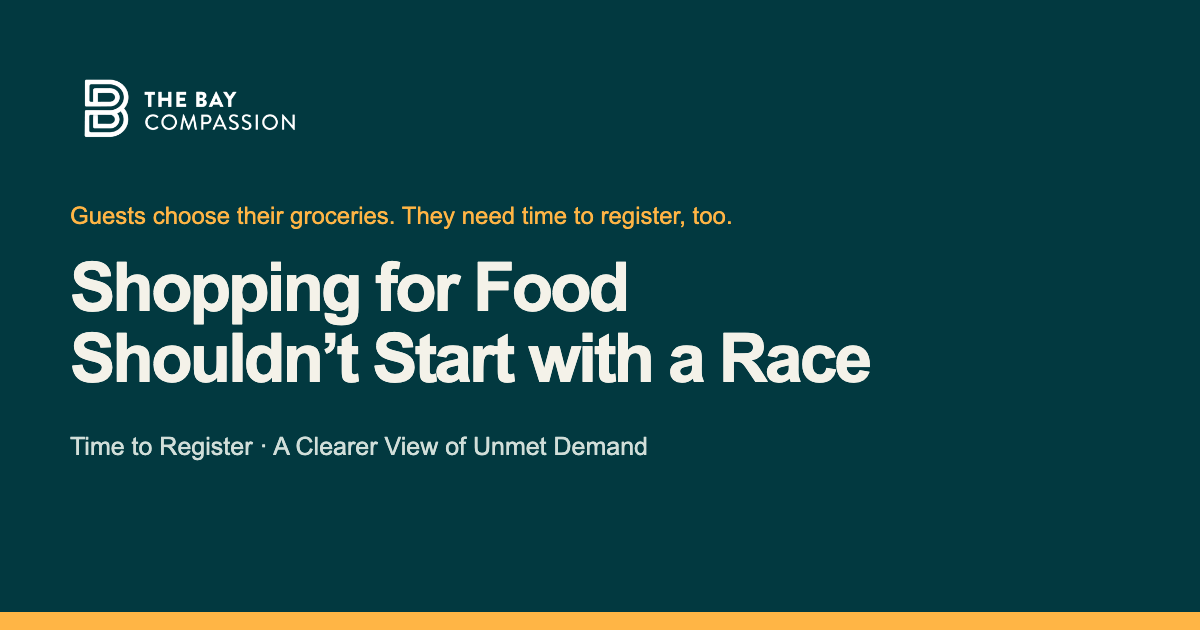
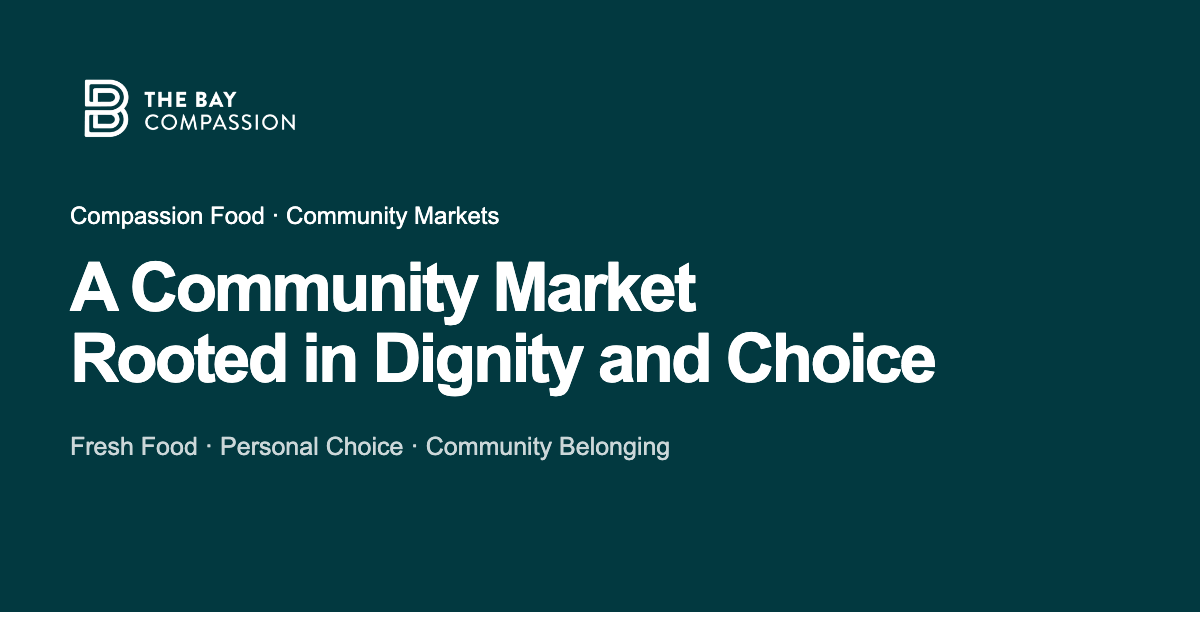
feat: center social preview on mission and separate brand accents

diff --git a/packages/presentations/portfolio/portfolio.css b/packages/presentations/portfolio/portfolio.css
@@ -4,7 +4,9 @@
 	--brand-dark: #012a2f;
 	--night: #011d21;
 	--border: rgb(233 241 238 / 20%);
-	--gold: #ffb545;
+	/* Decorative accents follow the brand palette; focus remains a visibility cue. */
+	--brand-accent: var(--ink);
+	--focus-color: #ffb545;
 	--muted: rgb(233 241 238 / 72%);
 	--font-body: Roboto, Arial, sans-serif;
 	--font-heading: 'Roboto Condensed', 'Arial Narrow', sans-serif;
@@ -27,7 +29,7 @@ a {
 	text-underline-offset: 4px;
 }
 a:focus-visible {
-	outline: 3px solid var(--gold);
+	outline: 3px solid var(--focus-color);
 	outline-offset: 5px;
 }
 img {
@@ -103,7 +105,7 @@ nav {
 }
 .eyebrow {
 	font-size: 12px;
-	color: var(--gold);
+	color: var(--brand-accent);
 	font-weight: 700;
 	letter-spacing: 0.1em;
 	text-transform: uppercase;
@@ -129,10 +131,10 @@ nav {
 	gap: 24px;
 	min-height: 48px;
 	padding: 14px 22px;
-	border: 2px solid var(--gold);
+	border: 2px solid var(--brand-accent);
 	border-radius: 999px;
 	background: transparent;
-	color: var(--gold);
+	color: var(--brand-accent);
 	font-family: var(--font-heading);
 	letter-spacing: 0.04em;
 	text-transform: uppercase;
@@ -140,7 +142,7 @@ nav {
 	text-decoration: none;
 }
 .button:hover {
-	background: var(--gold);
+	background: var(--brand-accent);
 	color: var(--night);
 }
 .facts {
@@ -220,7 +222,7 @@ figcaption strong {
 }
 .number {
 	display: block;
-	color: var(--gold);
+	color: var(--brand-accent);
 	font-size: 14px;
 	margin-bottom: 20px;
 }
@@ -238,7 +240,7 @@ figcaption strong {
 	text-decoration: none;
 }
 .guides > a:hover {
-	border-color: var(--gold);
+	border-color: var(--brand-accent);
 	background: rgb(3 74 82 / 50%);
 }
 .guides .eyebrow {

diff --git a/packages/presentations/portfolio/social.html b/packages/presentations/portfolio/social.html
@@ -4,6 +4,13 @@
 		<meta charset="utf-8" />
 		<title>The Bay Compassion · Project Preview</title>
 		<style>
+			:root {
+				/* Current brand palette; update these when the brand guidelines change. */
+				--social-background: #023940;
+				--social-text: #fff;
+				--social-accent: var(--social-text);
+				--social-text-muted: rgb(255 255 255 / 80%);
+			}
 			* {
 				box-sizing: border-box;
 			}
@@ -12,17 +19,17 @@
 				width: 1200px;
 				height: 630px;
 				padding: 70px;
-				background: #023940;
-				color: #f4f2e9;
+				background: var(--social-background);
+				color: var(--social-text);
 				font-family: Arial, sans-serif;
-				border-bottom: 18px solid #ffb545;
+				border-bottom: 18px solid var(--social-accent);
 			}
 			img {
 				width: 240px;
 				filter: brightness(0) invert(1);
 			}
 			p {
-				color: #ffb545;
+				color: var(--social-accent);
 				font-size: 24px;
 				margin: 50px 0 22px;
 			}
@@ -36,14 +43,14 @@
 			footer {
 				margin-top: 38px;
 				font-size: 25px;
-				color: #d1ded9;
+				color: var(--social-text-muted);
 			}
 		</style>
 	</head>
 	<body>
 		<img src="../../../public/wordmark.png" alt="The Bay Compassion" />
-		<p>Guests choose their groceries. They need time to register, too.</p>
-		<h1>Shopping for Food<br />Shouldn’t Start with a Race</h1>
-		<footer>Time to Register · A Clearer View of Unmet Demand</footer>
+		<p>Compassion Food · Community Markets</p>
+		<h1>A Community Market<br />Rooted in Dignity and Choice</h1>
+		<footer>Fresh Food · Personal Choice · Community Belonging</footer>
 	</body>
 </html>

diff --git a/packages/presentations/portfolio/index.html b/packages/presentations/portfolio/index.html
@@ -12,11 +12,11 @@
 		<meta property="og:type" content="website" />
 		<meta
 			property="og:title"
-			content="The Bay Compassion · Shopping for Food Shouldn’t Start with a Race"
+			content="The Bay Compassion · A Community Market Rooted in Dignity and Choice"
 		/>
 		<meta
 			property="og:description"
-			content="We want more dignity in getting a shopping place. A purpose-built app gives guests time to register and the market room to develop its allocation approach."
+			content="A community food market where guests choose fresh groceries that meet their needs. A project shaped by dignity, language access, accessibility, and care for guest information."
 		/>
 		<meta property="og:url" content="__BASE__" />
 		<meta property="og:image" content="__BASE__images/social.png" />
@@ -24,7 +24,7 @@
 		<meta property="og:image:height" content="630" />
 		<meta
 			property="og:image:alt"
-			content="The Bay Compassion. Shopping for Food Shouldn’t Start with a Race. Time to register. A clearer view of unmet demand."
+			content="The Bay Compassion. A Community Market Rooted in Dignity and Choice. Fresh Food. Personal Choice. Community Belonging."
 		/>
 		<meta name="twitter:card" content="summary_large_image" />
 		<link rel="icon" href="logo.png" />

diff --git a/docs/portfolio.md b/docs/portfolio.md
@@ -44,6 +44,12 @@ features.
 - `packages/presentations/site.html`: individual presentation page template.
 - `packages/presentations/videos.ts`: presentation registry and publication paths.
 
+The social card's `:root` defines `--social-background`, `--social-text`, and `--social-accent`;
+the accent defaults to white from the current teal-and-white brand palette. Update those mappings
+when the brand guidelines change, then run `npm run capture:portfolio` to regenerate the PNG.
+The landing page uses `--brand-accent` for decoration and a separate `--focus-color` for visible
+keyboard focus. Amber is a functional visibility cue, not a decorative brand color.
+
 These project pages are English editorial documentation. Guest interfaces and presentation
 controls continue to use the app's translation dictionaries.
 
